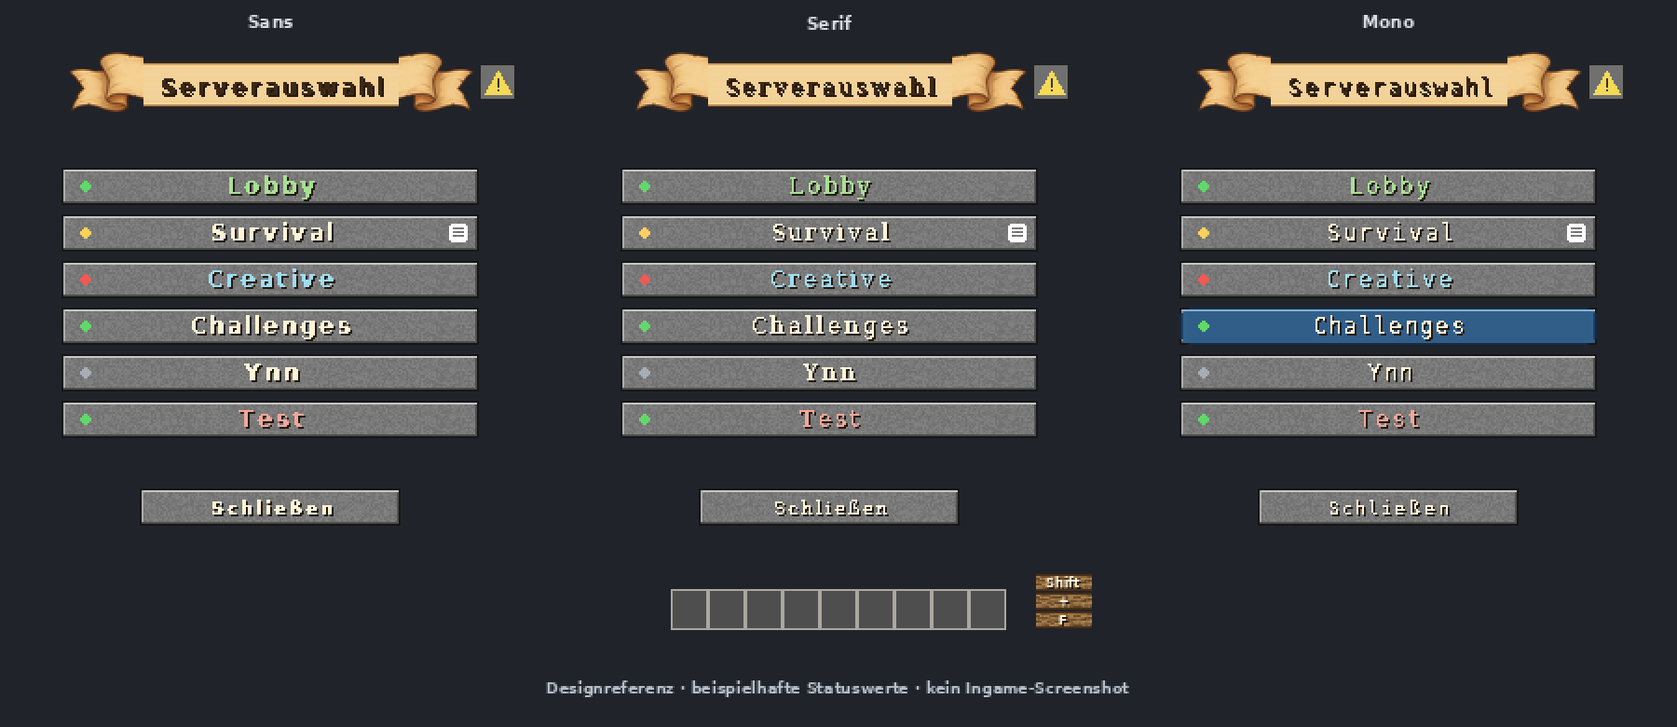
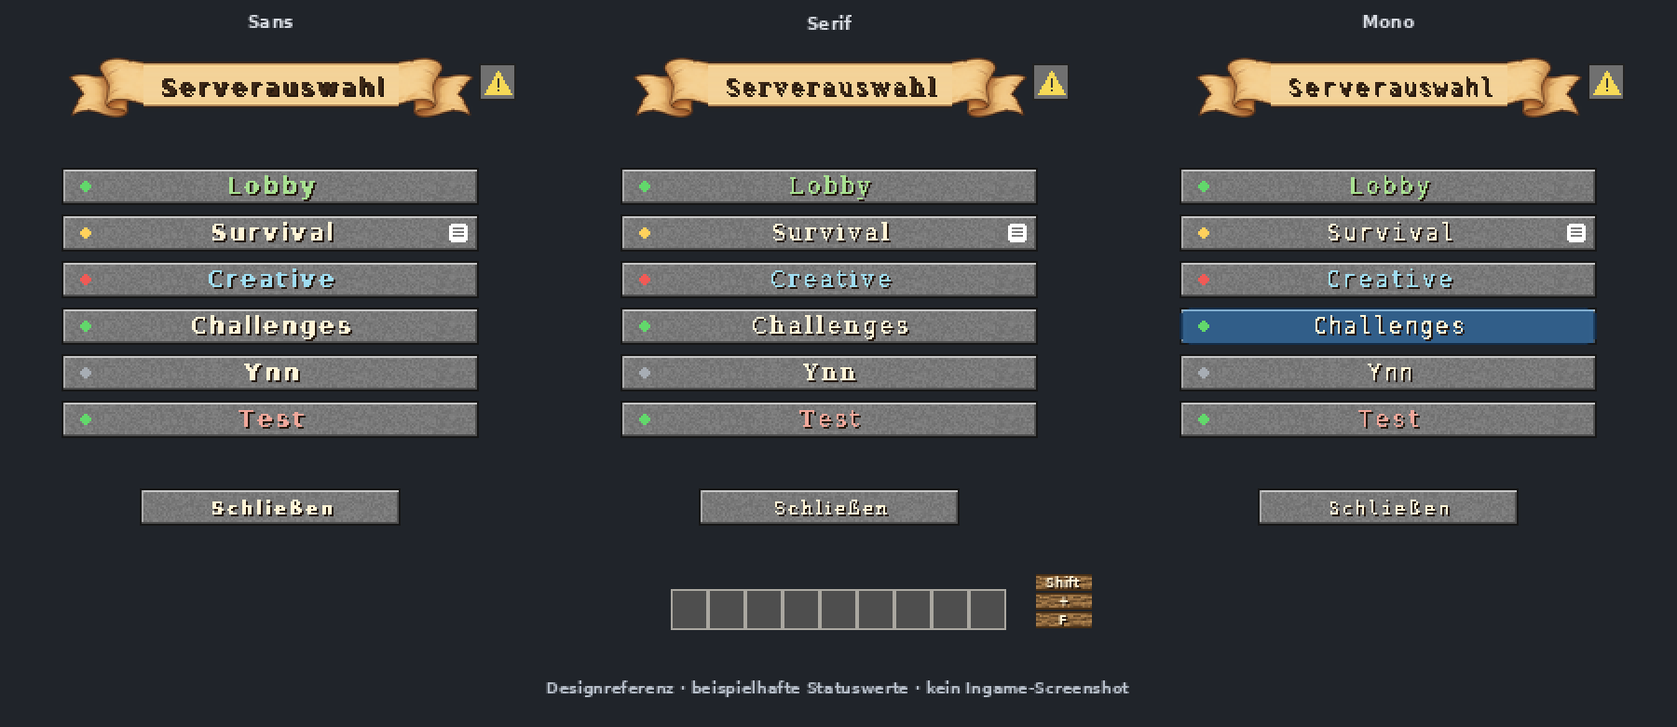
Fix ServerHub 2.5.2 news permissions, offline navigation, AMP success logs and scroll seams

diff --git a/velocity/src/test/java/de/serverhub/velocity/ProxyPackLifecycleTest.java b/velocity/src/test/java/de/serverhub/velocity/ProxyPackLifecycleTest.java
@@ -194,24 +194,47 @@ class ProxyPackLifecycleTest {
     void packet(ServerConnection connection,UUID nonce,Wire.Type type,String... values){
         var event=mock(PluginMessageEvent.class);when(event.getIdentifier()).thenReturn(MinecraftChannelIdentifier.from(Wire.CHANNEL));when(event.getSource()).thenReturn(connection);when(event.getData()).thenReturn(Wire.encode(type,nonce,values));plugin.pluginMessage(event);
     }
-    @Test void newsNeedsProxyPermissionAndTheCurrentBackendNonceAndReturnsOnlyVisibleContent()throws Exception{
-        setup("");connect();status(packId,PlayerResourcePackStatusEvent.Status.SUCCESSFUL);var connection=backend();var lobby=connection.getServer();var target=registered("challenges");when(proxy.getAllServers()).thenReturn(List.of(lobby,target));plugin.refreshRegistered();UUID nonce=UUID.randomUUID();packet(connection,nonce,Wire.Type.HELLO);
+    @Test void backendNewsGrantWorksWithUndefinedProxyRightsButExplicitDenialAndWrongNonceStillFail()throws Exception{
+        setup("");connect();status(packId,PlayerResourcePackStatusEvent.Status.SUCCESSFUL);var connection=backend();var lobby=connection.getServer();var target=registered("challenges");when(proxy.getAllServers()).thenReturn(List.of(lobby,target));when(proxy.getServer("challenges")).thenReturn(Optional.of(target));plugin.refreshRegistered();UUID nonce=UUID.randomUUID();packet(connection,nonce,Wire.Type.HELLO);
+        when(player.getPermissionValue("serverhub.news")).thenReturn(com.velocitypowered.api.permission.Tristate.FALSE);
         packet(connection,nonce,Wire.Type.NEWS_CHANGE,"start","challenges","Neue Welt");assertFalse(new NewsStore(directory).active("challenges"));
-        when(player.hasPermission("serverhub.news")).thenReturn(true);packet(connection,UUID.randomUUID(),Wire.Type.NEWS_CHANGE,"start","challenges","Gefälscht");assertFalse(new NewsStore(directory).active("challenges"));
+        when(player.getPermissionValue("serverhub.news")).thenReturn(com.velocitypowered.api.permission.Tristate.UNDEFINED);packet(connection,UUID.randomUUID(),Wire.Type.NEWS_CHANGE,"start","challenges","Gefälscht");assertFalse(new NewsStore(directory).active("challenges"));
         when(proxy.getAllPlayers()).thenReturn(List.of(player));clearInvocations(connection);packet(connection,nonce,Wire.Type.NEWS_CHANGE,"start","challenges","Neue Welt");assertEquals("Neue Welt",new NewsStore(directory).get("challenges"));
         var messages=ArgumentCaptor.forClass(byte[].class);verify(connection,atLeastOnce()).sendPluginMessage(any(),messages.capture());var snapshot=MenuSnapshot.decode(Wire.decode(messages.getAllValues().getLast()).values());assertTrue(snapshot.entries().stream().filter(e->e.target().equals("challenges")).findFirst().orElseThrow().style().news());assertEquals("lobby",snapshot.options().text("runtime.server"));
         clearInvocations(connection);packet(connection,nonce,Wire.Type.NEWS_VIEW,"challenges");verify(connection).sendPluginMessage(any(),messages.capture());var content=Wire.decode(messages.getValue());assertEquals(Wire.Type.NEWS_CONTENT,content.type());assertEquals(List.of("challenges","Neue Welt"),content.values());
         when(player.getPermissionValue("serverhub.connect.challenges")).thenReturn(com.velocitypowered.api.permission.Tristate.FALSE);clearInvocations(connection);packet(connection,nonce,Wire.Type.NEWS_VIEW,"challenges");verify(connection).sendPluginMessage(any(),messages.capture());assertEquals(Wire.Type.RESULT,Wire.decode(messages.getValue()).type());
         when(player.getPermissionValue("serverhub.connect.challenges")).thenReturn(com.velocitypowered.api.permission.Tristate.UNDEFINED);packet(connection,nonce,Wire.Type.NEWS_CHANGE,"stop","challenges");assertFalse(new NewsStore(directory).active("challenges"));
     }
-    @Test void ampSleepIsInTheActualMenuEvenWhenMinecraftPingAndPaperHeartbeatAreAwake()throws Exception{
+    @Test void newsCanBeSetForTheLobbyAndOtherTargetsWithoutAnyTeleportOrConnectPermission()throws Exception{
+        setup("");connect();status(packId,PlayerResourcePackStatusEvent.Status.SUCCESSFUL);var connection=backend();var lobby=connection.getServer();var other=registered("challenges");when(proxy.getAllServers()).thenReturn(List.of(lobby,other));when(proxy.getServer("lobby")).thenReturn(Optional.of(lobby));when(proxy.getServer("challenges")).thenReturn(Optional.of(other));plugin.refreshRegistered();UUID nonce=UUID.randomUUID();packet(connection,nonce,Wire.Type.HELLO);
+        when(player.getPermissionValue("serverhub.news")).thenReturn(com.velocitypowered.api.permission.Tristate.UNDEFINED);when(player.getPermissionValue("serverhub.connect.challenges")).thenReturn(com.velocitypowered.api.permission.Tristate.FALSE);
+        for(String target:List.of("lobby","challenges")){
+            clearInvocations(connection);var operation=NewsCommand.parse(new String[]{"news","start","--server",target,"Neue","Welt"},"lobby");packet(connection,nonce,Wire.Type.NEWS_CHANGE,operation.wire());assertEquals("Neue Welt",new NewsStore(directory).get(target));
+            var bytes=ArgumentCaptor.forClass(byte[].class);verify(connection).sendPluginMessage(any(),bytes.capture());assertEquals(List.of("news-start"),Wire.decode(bytes.getValue()).values());
+            packet(connection,nonce,Wire.Type.NEWS_CHANGE,NewsCommand.parse(new String[]{"news","stop","--server",target},"lobby").wire());assertFalse(new NewsStore(directory).active(target));
+        }
+        clearInvocations(connection);packet(connection,nonce,Wire.Type.NEWS_CHANGE,"start","missing","Text");var bytes=ArgumentCaptor.forClass(byte[].class);verify(connection).sendPluginMessage(any(),bytes.capture());assertEquals(List.of("news-unavailable"),Wire.decode(bytes.getValue()).values());
+        verify(player,never()).createConnectionRequest(any());
+    }
+    NavigatorBridgeTest.Api navigator(){
+        var api=new NavigatorBridgeTest.Api();var manager=mock(com.velocitypowered.api.plugin.PluginManager.class);var container=mock(com.velocitypowered.api.plugin.PluginContainer.class);when(proxy.getPluginManager()).thenReturn(manager);when(manager.getPlugin("servernavigator")).thenReturn(Optional.of(container));doReturn(Optional.of(api)).when(container).getInstance();return api;
+    }
+    @Test void aRedOfflinePingNeverStartsTheNavigatorCountdownOrADirectTransfer()throws Exception{
+        setup("");connect();status(packId,PlayerResourcePackStatusEvent.Status.SUCCESSFUL);var connection=backend();var lobby=connection.getServer();var target=registered("survival");when(proxy.getAllServers()).thenReturn(List.of(lobby,target));when(proxy.getServer("survival")).thenReturn(Optional.of(target));var api=navigator();catalog(connection);
+        var online=ServerPing.builder().version(new ServerPing.Version(774,"Paper")).description(net.kyori.adventure.text.Component.text("Online")).build();when(lobby.ping(any(PingOptions.class))).thenReturn(java.util.concurrent.CompletableFuture.completedFuture(online));when(target.ping(any(PingOptions.class))).thenReturn(java.util.concurrent.CompletableFuture.failedFuture(new java.io.IOException("offline")));plugin.refreshStatuses();
+        UUID nonce=UUID.randomUUID();clearInvocations(connection);packet(connection,nonce,Wire.Type.HELLO);var bytes=ArgumentCaptor.forClass(byte[].class);verify(connection,times(3)).sendPluginMessage(any(),bytes.capture());var menu=MenuSnapshot.decode(Wire.decode(bytes.getAllValues().getLast()).values());assertEquals(MenuSnapshot.Status.OFFLINE,menu.entries().stream().filter(e->e.target().equals("survival")).findFirst().orElseThrow().status());
+        clearInvocations(connection);packet(connection,nonce,Wire.Type.CONNECT,"survival");verify(connection).sendPluginMessage(any(),bytes.capture());assertEquals(List.of("offline"),Wire.decode(bytes.getValue()).values());assertNull(api.requested);verify(player,never()).createConnectionRequest(any());
+    }
+    @org.junit.jupiter.params.ParameterizedTest @org.junit.jupiter.params.provider.ValueSource(ints={0,50})
+    void ampControlsTheActualMenuAndNavigationEvenWhenPingAndPaperHeartbeatAreAwake(int appState)throws Exception{
         setup("https://example.org/serverhub.zip");connect();status(packId,PlayerResourcePackStatusEvent.Status.SUCCESSFUL);var connection=backend();var lobby=connection.getServer();var survival=registered("survival");when(proxy.getAllServers()).thenReturn(List.of(lobby,survival));when(proxy.getServer("survival")).thenReturn(Optional.of(survival));
-        var http=com.sun.net.httpserver.HttpServer.create(new InetSocketAddress("127.0.0.1",0),0);http.createContext("/API/",exchange->{String result=exchange.getRequestURI().getPath().endsWith("Login")?"{\"success\":true,\"sessionID\":\"fixture\"}":"[{\"InstanceID\":\"survival\",\"AppState\":50}]";exchange.getRequestBody().readAllBytes();byte[] bytes=result.getBytes(java.nio.charset.StandardCharsets.UTF_8);exchange.sendResponseHeaders(200,bytes.length);exchange.getResponseBody().write(bytes);exchange.close();});http.start();
+        var http=com.sun.net.httpserver.HttpServer.create(new InetSocketAddress("127.0.0.1",0),0);http.createContext("/API/",exchange->{String result=exchange.getRequestURI().getPath().endsWith("Login")?"{\"success\":true,\"sessionID\":\"fixture\"}":"[{\"InstanceID\":\"survival\",\"AppState\":"+appState+"}]";exchange.getRequestBody().readAllBytes();byte[] bytes=result.getBytes(java.nio.charset.StandardCharsets.UTF_8);exchange.sendResponseHeaders(200,bytes.length);exchange.getResponseBody().write(bytes);exchange.close();});http.start();
         try{
             Files.writeString(directory.resolve("amp.yml"),"enabled: true\nurl: 'http://127.0.0.1:"+http.getAddress().getPort()+"/'\nusername: fixture\n");plugin.reload();var ampField=ServerHubVelocity.class.getDeclaredField("amp");ampField.setAccessible(true);((AmpStatusSource)ampField.get(plugin)).poll();
             var monitorField=ServerHubVelocity.class.getDeclaredField("statusMonitor");monitorField.setAccessible(true);((ServerStatusMonitor)monitorField.get(plugin)).backend("survival",new BackendStatus(UUID.randomUUID(),1,false));
             var awake=ServerPing.builder().version(new ServerPing.Version(774,"Paper")).description(net.kyori.adventure.text.Component.text("Online")).build();when(lobby.ping(any(PingOptions.class))).thenReturn(java.util.concurrent.CompletableFuture.completedFuture(awake));when(survival.ping(any(PingOptions.class))).thenReturn(java.util.concurrent.CompletableFuture.completedFuture(awake));plugin.refreshStatuses();
-            catalog(connection);var bytes=ArgumentCaptor.forClass(byte[].class);verify(connection,times(3)).sendPluginMessage(any(),bytes.capture());var menu=MenuSnapshot.decode(Wire.decode(bytes.getAllValues().getLast()).values());assertEquals(MenuSnapshot.Status.SLEEPING,menu.entries().stream().filter(e->e.target().equals("survival")).findFirst().orElseThrow().status());
+            catalog(connection);var bytes=ArgumentCaptor.forClass(byte[].class);verify(connection,times(3)).sendPluginMessage(any(),bytes.capture());var menu=MenuSnapshot.decode(Wire.decode(bytes.getAllValues().getLast()).values());assertEquals(appState==0?MenuSnapshot.Status.OFFLINE:MenuSnapshot.Status.SLEEPING,menu.entries().stream().filter(e->e.target().equals("survival")).findFirst().orElseThrow().status());
+            var api=navigator();UUID nonce=UUID.randomUUID();packet(connection,nonce,Wire.Type.HELLO);packet(connection,nonce,Wire.Type.CONNECT,"survival");if(appState==0){assertNull(api.requested);verify(connection,atLeastOnce()).sendPluginMessage(any(),bytes.capture());assertEquals(List.of("offline"),Wire.decode(bytes.getValue()).values());}else assertSame(player,api.requested);verify(player,never()).createConnectionRequest(any());
         }finally{http.stop(0);}
         verify(player,times(1)).sendResourcePackOffer(any());
     }

diff --git a/velocity/src/main/java/de/serverhub/velocity/ServerHubVelocity.java b/velocity/src/main/java/de/serverhub/velocity/ServerHubVelocity.java
@@ -94,7 +94,7 @@ public final class ServerHubVelocity {
                 if(host!=null&&settings!=null&&(settings.port()!=next.port()||!settings.bind().equals(next.bind())))throw new IOException("HTTP-Bind oder Port geändert: Proxy vollständig neu starten");
                 if(host==null&&next.http())host=new PackHost(next.bind(),next.port(),next.pack());else if(host!=null)host.update(next.pack());
                 menus.adopt(candidate);statusMonitor.configure(candidate);currentFonts=fonts;currentUi=ui;news=newsCandidate;settings=next;retainHostedPacks();
-                if(amp==null||!amp.config().equals(ampConfig)){if(amp!=null)amp.close();amp=new AmpStatusSource(ampConfig,logger::warn,this::pushMenus);}
+                if(amp==null||!amp.config().equals(ampConfig)){if(amp!=null)amp.close();amp=new AmpStatusSource(ampConfig,logger::warn,logger::info,this::pushMenus);}
                 if(statusReceiver==null&&candidate.options().flag("status.backend-reports"))try{statusReceiver=new BackendStatusReceiver(directory,candidate.options().text("status.report-bind"),candidate.options().number("status.report-port"),target->proxy.getServer(target).isPresent(),statusMonitor::backend);}
                 catch(IOException e){logger.warn("Backend-Statuskanal konnte nicht gestartet werden: {}. Status fällt auf Pings zurück; status.report-port in servers.yml prüfen.",e.getMessage());}
             }
@@ -197,10 +197,14 @@ public final class ServerHubVelocity {
     private void sendMenu(Player p){
         sendMenu(p,false);
     }
+    private MenuSnapshot.Status backendStatus(CentralMenuConfig.Server server,CentralMenuConfig.State state){
+        var status=statusMonitor.status(server,state);var source=amp;
+        return source!=null&&server.override().equals("auto")?source.status(server).orElse(status):status;
+    }
     private void sendMenu(Player p,boolean force){
         var state=menus.current();if(state==null)return;
         boolean integrate=state.options().flag("integration.servernavigator");
-        var entries=visibleServers(p).stream().map(s->{var e=s.entry();var status=statusMonitor.status(s,state);var source=amp;if(source!=null&&s.override().equals("auto"))status=source.status(s).orElse(status);if(integrate&&s.override().equals("auto"))status=navigator.status(e.target(),status);int online=proxy.getServer(e.target()).map(server->server.getPlayersConnected().size()).orElse(0),maximum=statusMonitor.maximum(e.target());String prefix=MenuTemplate.prefix(e.style().prefix().isBlank()?state.options().text("prefix.text"):e.style().prefix(),e.name(),e.target(),status,online,maximum);return new MenuSnapshot.Entry(e.target(),e.name(),e.color(),e.size(),e.permission(),e.description(),status,e.family(),e.style().live(online,maximum,prefix,news!=null&&news.active(e.target())));}).toList();
+        var entries=visibleServers(p).stream().map(s->{var e=s.entry();var status=backendStatus(s,state);if(integrate&&s.override().equals("auto")&&status!=MenuSnapshot.Status.OFFLINE)status=navigator.status(e.target(),status);int online=proxy.getServer(e.target()).map(server->server.getPlayersConnected().size()).orElse(0),maximum=statusMonitor.maximum(e.target());String prefix=MenuTemplate.prefix(e.style().prefix().isBlank()?state.options().text("prefix.text"):e.style().prefix(),e.name(),e.target(),status,online,maximum);return new MenuSnapshot.Entry(e.target(),e.name(),e.color(),e.size(),e.permission(),e.description(),status,e.family(),e.style().live(online,maximum,prefix,news!=null&&news.active(e.target())));}).toList();
         var values=new LinkedHashMap<>(state.options().values());values.put("runtime.waiting",Boolean.toString(integrate&&navigator.waiting(p.getUniqueId())));values.put("runtime.server",p.getCurrentServer().map(server->server.getServerInfo().getName()).orElse(""));
         Gate gate=gates.get(p.getUniqueId());FontBook fonts=gate==null?currentFonts:gate.fonts;
         try{var snapshot=new MenuSnapshot(state.revision(),new MenuOptions(values),entries,fonts,gate==null?currentUi:gate.ui);if(!force&&gate!=null&&snapshot.equals(gate.lastMenu))return;send(p,Wire.Type.MENU,snapshot.encode());if(gate!=null)gate.lastMenu=snapshot;}
@@ -239,10 +243,13 @@ public final class ServerHubVelocity {
         synchronized(gate){long now=System.currentTimeMillis();if(now-gate.lastSwitch<700)return;gate.lastSwitch=now;}
         if(!target.matches("[A-Za-z0-9_.-]{1,64}")){send(p,Wire.Type.RESULT,"denied");return;}
         if(p.getPermissionValue("serverhub.connect."+target)==Tristate.FALSE){send(p,Wire.Type.RESULT,"denied");return;}
-        if(visibleServers(p).stream().noneMatch(s->s.entry().target().equalsIgnoreCase(target))){send(p,Wire.Type.RESULT,"denied");return;}
+        var destination=visibleServers(p).stream().filter(s->s.entry().target().equalsIgnoreCase(target)).findFirst().orElse(null);
+        if(destination==null){send(p,Wire.Type.RESULT,"denied");return;}
         var registered=proxy.getServer(target);
         if(registered.isEmpty()){send(p,Wire.Type.RESULT,"unavailable");return;}
         if(p.getCurrentServer().filter(c->c.getServer().equals(registered.get())).isPresent()){send(p,Wire.Type.RESULT,"already");return;}
+        // Check the real backend/AMP state before Navigator can create a queue or countdown.
+        if(backendStatus(destination,menus.current())==MenuSnapshot.Status.OFFLINE){send(p,Wire.Type.RESULT,"offline");return;}
         if(menus.current().options().flag("integration.servernavigator")){
             var result=navigator.navigate(p,target);
             if(result==NavigatorBridge.Result.HANDLED){sendMenu(p);return;}
@@ -253,11 +260,17 @@ public final class ServerHubVelocity {
         });
     }
     private void changeNews(Player player,NewsCommand operation){
-        if(!player.hasPermission("serverhub.news")||news==null||visibleServers(player).stream().noneMatch(s->s.entry().target().equalsIgnoreCase(operation.target()))){send(player,Wire.Type.RESULT,"denied");return;}
-        try{if(operation.start())news.start(operation.target(),operation.message());else news.stop(operation.target());send(player,Wire.Type.RESULT,operation.start()?"news-start":"news-stop");pushMenus();}catch(IOException e){logger.warn("Neuigkeiten konnten nicht gespeichert werden: {}",e.getMessage());send(player,Wire.Type.RESULT,"unavailable");}
+        // Only reached from the current trusted backend with its session nonce.
+        // Paper has checked serverhub.news (including its OP default). An explicit
+        // proxy denial still wins; an absent proxy permission must not erase that grant.
+        if(player.getPermissionValue("serverhub.news")==Tristate.FALSE){send(player,Wire.Type.RESULT,"news-denied");return;}
+        var state=menus.current();
+        if(news==null||state==null||proxy.getServer(operation.target()).isEmpty()||state.servers().stream().noneMatch(s->s.entry().target().equalsIgnoreCase(operation.target()))){send(player,Wire.Type.RESULT,"news-unavailable");return;}
+        // Publishing news is independent of the player's right to connect to that target.
+        try{if(operation.start())news.start(operation.target(),operation.message());else news.stop(operation.target());send(player,Wire.Type.RESULT,operation.start()?"news-start":"news-stop");pushMenus();}catch(IOException e){logger.warn("Neuigkeiten konnten nicht gespeichert werden: {}",e.getMessage());send(player,Wire.Type.RESULT,"news-unavailable");}
     }
     private void viewNews(Player player,String target){
-        Gate gate=gates.get(player.getUniqueId());if(gate==null||!gate.state.ready()||!Wire.validTarget(target)||news==null||visibleServers(player).stream().noneMatch(s->s.entry().target().equalsIgnoreCase(target))){send(player,Wire.Type.RESULT,"denied");return;}
+        Gate gate=gates.get(player.getUniqueId());if(gate==null||!gate.state.ready()||!Wire.validTarget(target)||news==null||visibleServers(player).stream().noneMatch(s->s.entry().target().equalsIgnoreCase(target))){send(player,Wire.Type.RESULT,"news-unavailable");return;}
         send(player,Wire.Type.NEWS_CONTENT,NewsCommand.content(target,news.get(target)));
     }
     @Subscribe public void shutdown(ProxyShutdownEvent event){

diff --git a/velocity/src/main/java/de/serverhub/velocity/AmpStatusSource.java b/velocity/src/main/java/de/serverhub/velocity/AmpStatusSource.java
@@ -21,13 +21,15 @@ final class AmpStatusSource implements AutoCloseable {
     record Config(boolean enabled,URI url,String username,String password,String token,int interval,int stale,boolean autoMatch,String mode,String instanceTarget,Map<String,MenuSnapshot.Status> states){}
     private record Instance(String id,String name,String friendly,String state){}
     private record Snapshot(List<Instance> instances,long time){}
-    private final Config config;private final Consumer<String> log;private final Runnable changed;private final LongSupplier clock;
+    private final Config config;private final Consumer<String> log,info;private final Runnable changed;private final LongSupplier clock;
     private final HttpClient client=HttpClient.newBuilder().followRedirects(HttpClient.Redirect.NEVER).connectTimeout(Duration.ofSeconds(3)).build();
     private final ExecutorService executor=Executors.newVirtualThreadPerTaskExecutor();private final AtomicBoolean pending=new AtomicBoolean();
     private volatile Snapshot snapshot=new Snapshot(List.of(),0);private volatile String error="Noch nicht abgefragt";private volatile boolean closed;
-    private String session="";private long nextPoll,nextLogin,lastWarning;
-    AmpStatusSource(Config config,Consumer<String> log,Runnable changed){this(config,log,changed,System::currentTimeMillis);}
-    AmpStatusSource(Config config,Consumer<String> log,Runnable changed,LongSupplier clock){this.config=config;this.log=log;this.changed=changed;this.clock=clock;}
+    private String session="";private long nextPoll,nextLogin,lastWarning;private int announcedCount=-1;
+    AmpStatusSource(Config config,Consumer<String> log,Runnable changed){this(config,log,message->{},changed,System::currentTimeMillis);}
+    AmpStatusSource(Config config,Consumer<String> log,Runnable changed,LongSupplier clock){this(config,log,message->{},changed,clock);}
+    AmpStatusSource(Config config,Consumer<String> log,Consumer<String> info,Runnable changed){this(config,log,info,changed,System::currentTimeMillis);}
+    AmpStatusSource(Config config,Consumer<String> log,Consumer<String> info,Runnable changed,LongSupplier clock){this.config=config;this.log=log;this.info=info;this.changed=changed;this.clock=clock;}
     Config config(){return config;}
     static Config load(Path directory)throws IOException {
         Path file=directory.resolve("amp.yml");if(!Files.exists(file))try(var input=AmpStatusSource.class.getResourceAsStream("/amp.yml")){if(input==null)throw new IOException("AMP-Vorlage fehlt");Files.copy(input,file);}
@@ -56,11 +58,13 @@ final class AmpStatusSource implements AutoCloseable {
                 if(now<nextLogin)return;
                 nextLogin=now+60000;var login=post("Core/Login",Map.of("username",config.username,"password",config.password,"token",config.token,"rememberMe",false),false).getAsJsonObject();
                 if(!Json.get(login,"success").isJsonPrimitive()||!Json.get(login,"success").getAsBoolean()||(session=Json.string(login,"sessionID","")).isBlank()){nextLogin=now+60000;throw new IOException("AMP-Anmeldung fehlgeschlagen; Benutzer, Service-Token/Passwort und API-Rechte prüfen");}
-                nextLogin=0;
+                nextLogin=0;announcedCount=-1;info.accept("AMP: Anmeldung erfolgreich.");
             }
             JsonElement data=post(config.mode.equals("controller")?"ADSModule/GetInstances":"Core/GetStatus",Map.of("SESSIONID",session),true);var instances=new LinkedHashMap<String,Instance>();
             if(config.mode.equals("instance")){var value=data.getAsJsonObject();String state=Json.string(value,"State","");if(!state.isBlank())instances.put(config.instanceTarget,new Instance(config.instanceTarget,config.instanceTarget,config.instanceTarget,state));}
             else collect(data,instances,0);
+            if(closed)return;
+            if(instances.size()!=announcedCount){announcedCount=instances.size();info.accept("AMP: "+announcedCount+" Serverinstanzen mit Anwendungsstatus gefunden.");}
             if(instances.isEmpty())throw new IOException("AMP liefert keine Anwendungszustände; ADSModule.GetInstances-Rechte und amp.yml mode prüfen");
             var next=new Snapshot(List.copyOf(instances.values()),clock.getAsLong());if(closed)return;boolean different=!next.instances.equals(snapshot.instances);snapshot=next;error="";if(different)changed.run();
         }catch(Exception e){if(e instanceof InterruptedException)Thread.currentThread().interrupt();if(closed)return;error=e instanceof IOException?e.getMessage():"AMP-Antwort entspricht nicht dem erwarteten API-Format";if(now-lastWarning>60000){lastWarning=now;log.accept(error);}changed.run();}

diff --git a/velocity/src/test/java/de/serverhub/velocity/PackWorkspaceTest.java b/velocity/src/test/java/de/serverhub/velocity/PackWorkspaceTest.java
@@ -18,13 +18,21 @@ class PackWorkspaceTest {
         assertTrue(Files.isRegularFile(directory.resolve("pack/assets/serverhub/textures/gui/button_mid.png")));
         assertFalse(Files.exists(directory.resolve("pack-font-cache.properties.tmp")));
     }
+    @Test void theRollEndPiecesMeetTheMiddleAtTheSameVisibleTopEdge()throws Exception {
+        PackWorkspace.prepare(directory,stock(),MenuOptions.defaults());Path root=directory.resolve("pack/assets/serverhub");var definition=Json.read(Files.readString(root.resolve("font/gui.json"))).getAsJsonObject();var edges=new HashMap<String,int[]>();
+        for(var value:definition.getAsJsonArray("providers")){
+            var provider=value.getAsJsonObject();String file=Json.string(provider,"file","");if(!file.matches("serverhub:gui/scroll_(left|mid|right)\\.png"))continue;String part=file.substring(file.lastIndexOf('_')+1,file.length()-4);var image=javax.imageio.ImageIO.read(root.resolve("textures/"+file.substring("serverhub:".length())).toFile());int x=part.equals("left")?image.getWidth()-1:0,min=100,max=-100;int ascent=provider.get("ascent").getAsInt();
+            for(int y=0;y<image.getHeight();y++)if((image.getRGB(x,y)>>>24)>=128){min=Math.min(min,y-ascent);max=Math.max(max,y-ascent);}edges.put(part,new int[]{min,max});
+        }
+        assertEquals(3,edges.size());for(String side:List.of("left","right")){assertEquals(edges.get("mid")[0],edges.get(side)[0],"The roll must have no step at its upper seam");assertTrue(Math.abs(edges.get("mid")[1]-edges.get(side)[1])<=1);}
+    }
     @Test void anUntouchedTwoFourFolderUpgradesToTheExactNewGithubPack()throws Exception {
-        byte[] stock=stock();PackWorkspace.prepare(directory,stock,MenuOptions.defaults());Path metadata=directory.resolve("pack/pack.mcmeta");String factory=Files.readString(metadata);Files.writeString(metadata,factory.replace("ServerHub 2.5.1","ServerHub 2.4"));
+        byte[] stock=stock();PackWorkspace.prepare(directory,stock,MenuOptions.defaults());Path metadata=directory.resolve("pack/pack.mcmeta");String factory=Files.readString(metadata);Files.writeString(metadata,factory.replace("ServerHub 2.5.2","ServerHub 2.4"));
         Files.delete(directory.resolve("pack-bundled-files.properties"));
         var upgraded=PackWorkspace.prepare(directory,stock,MenuOptions.defaults());assertArrayEquals(stock,upgraded.bytes());assertEquals(factory,Files.readString(metadata));
     }
     @Test void factoryUpgradesKeepCustomTexturesAndChooseTheEditableDeliveryMode()throws Exception {
-        byte[] stock=stock();PackWorkspace.prepare(directory,stock,MenuOptions.defaults());Path metadata=directory.resolve("pack/pack.mcmeta");Files.writeString(metadata,Files.readString(metadata).replace("ServerHub 2.5.1","ServerHub 2.4"));Files.delete(directory.resolve("pack-bundled-files.properties"));
+        byte[] stock=stock();PackWorkspace.prepare(directory,stock,MenuOptions.defaults());Path metadata=directory.resolve("pack/pack.mcmeta");Files.writeString(metadata,Files.readString(metadata).replace("ServerHub 2.5.2","ServerHub 2.4"));Files.delete(directory.resolve("pack-bundled-files.properties"));
         Path button=directory.resolve("pack/assets/serverhub/textures/gui/button_mid.png");var texture=javax.imageio.ImageIO.read(button.toFile());texture.setRGB(0,5,0xFF123456);javax.imageio.ImageIO.write(texture,"png",button.toFile());byte[] custom=Files.readAllBytes(button);
         Files.writeString(directory.resolve("config.properties"),"pack.mode=auto\n");var upgraded=PackWorkspace.prepare(directory,stock,MenuOptions.defaults());assertArrayEquals(custom,Files.readAllBytes(button));assertFalse(PackWorkspace.bundled(upgraded,stock));assertTrue(ProxySettings.read(directory).http());
     }

diff --git a/paper/src/main/java/de/serverhub/paper/ServerHubPaper.java b/paper/src/main/java/de/serverhub/paper/ServerHubPaper.java
@@ -146,7 +146,7 @@ public final class ServerHubPaper extends JavaPlugin implements Listener, Comman
             } else if (packet.type() == Wire.Type.CATALOG) {
                 s.catalog = packet.values(); s.discovered = true;
             } else if (packet.type() == Wire.Type.RESULT) {
-                String key = switch(packet.value(0)) { case "already" -> "already-connected"; case "denied" -> "denied"; case "loading" -> "loading";case "navigator" -> "navigator-unavailable";case "news-start"->"news-started";case "news-stop"->"news-stopped"; default -> "unavailable"; };
+                String key = switch(packet.value(0)) { case "already" -> "already-connected"; case "denied" -> "denied"; case "loading" -> "loading";case "offline"->"server-offline";case "navigator" -> "navigator-unavailable";case "news-start"->"news-started";case "news-stop"->"news-stopped";case "news-denied"->"news-denied";case "news-unavailable"->"news-unavailable"; default -> "unavailable"; };
                 p.sendMessage(message(p,key));
             }
         } catch (Exception ignored) { /* Untrusted or out-of-date message. */ }
@@ -263,7 +263,7 @@ public final class ServerHubPaper extends JavaPlugin implements Listener, Comman
     }
     @Override public boolean onCommand(CommandSender sender,Command cmd,String label,String[] args){
         if(args.length>0&&args[0].equalsIgnoreCase("news")){
-            if(!sender.hasPermission("serverhub.news")){sender.sendMessage(message("no-permission"));return true;}
+            if(!sender.hasPermission("serverhub.news")){sender.sendMessage(sender instanceof Player player?message(player,"news-denied"):message("news-denied"));return true;}
             try{
                 String current=!proxyExpected?"local":sender instanceof Player player?effective(player).menuOptions().text("runtime.server"):"";var operation=NewsCommand.parse(args,current);
                 if(proxyExpected){if(!(sender instanceof Player player)){sender.sendMessage("Am Proxy /serverhubproxy news start --server Ziel Nachricht verwenden.");return true;}Session session=sessions.get(player.getUniqueId());if(session==null||session.central==null){player.sendMessage(message(player,"discovering"));return true;}player.sendPluginMessage(this,Wire.CHANNEL,Wire.encode(Wire.Type.NEWS_CHANGE,session.nonce,operation.wire()));}

diff --git a/tools/build_pack.py b/tools/build_pack.py
@@ -34,8 +34,9 @@ def main():
     info.save(gui/'info.png')
     dot=Image.new('RGBA',(6,6),(255,255,255,0));ImageDraw.Draw(dot).ellipse((0,0,5,5),fill='white');dot.save(gui/'status.png')
     save_json(A/'font/status.json',{'providers':[{'type':'bitmap','file':'serverhub:gui/status.png','height':6,'ascent':6,'chars':['\uE300']}]})
-    # Nine-slice glyphs let the client build a roll/button of the measured text width.
-    parts=[('scroll_left',scroll.crop((0,0,40,32)),0xE400,19),('scroll_mid',scroll.crop((scroll.width//2,0,scroll.width//2+1,32)),0xE401,19),('scroll_right',scroll.crop((scroll.width-40,0,scroll.width,32)),0xE402,19),
+    # End decorations sit three pixels below the middle so the inner paper edges meet.
+    # Glyph geometry keeps the center strip and title text fixed.
+    parts=[('scroll_left',scroll.crop((0,0,40,32)),0xE400,16),('scroll_mid',scroll.crop((scroll.width//2,0,scroll.width//2+1,32)),0xE401,19),('scroll_right',scroll.crop((scroll.width-40,0,scroll.width,32)),0xE402,16),
            ('button_left',wood.crop((0,0,4,20)),0xE410,13),('button_mid',wood.crop((70,0,71,20)),0xE411,13),('button_right',wood.crop((136,0,140,20)),0xE412,13),
            ('info_left',info.crop((0,0,4,20)),0xE420,13),('info_mid',info.crop((70,0,71,20)),0xE421,13),('info_right',info.crop((136,0,140,20)),0xE422,13)]
     providers=[]
@@ -112,7 +113,7 @@ def main():
     ]})
     save_json(A/'items/menu_icon.json',{'model':{'type':'minecraft:model','model':'serverhub:item/menu_icon'}})
     save_json(A/'models/item/menu_icon.json',{'parent':'minecraft:item/generated','textures':{'layer0':'serverhub:item/menu_icon'}})
-    save_json(OUT/'pack.mcmeta',{'pack':{'description':'ServerHub 2.5.1 · Native Dialoge · Java 26.3','min_format':[97,1],'max_format':[97,1]}})
+    save_json(OUT/'pack.mcmeta',{'pack':{'description':'ServerHub 2.5.2 · Native Dialoge · Java 26.3','min_format':[97,1],'max_format':[97,1]}})
     shutil.copyfile(source/'FONT-LICENSE.txt',OUT/'FONT-LICENSE.txt')
     package()
 

diff --git a/velocity/src/test/java/de/serverhub/velocity/AmpStatusSourceTest.java b/velocity/src/test/java/de/serverhub/velocity/AmpStatusSourceTest.java
@@ -53,4 +53,15 @@ class AmpStatusSourceTest {
     @Test void disabledAmpDoesNotClaimTargets()throws Exception {
         Files.writeString(directory.resolve("amp.yml"),"enabled: false\n");try(var source=new AmpStatusSource(AmpStatusSource.load(directory),s->{},()->{})){source.poll();assertTrue(paths.isEmpty());assertTrue(source.status(target("survival","")).isEmpty());}
     }
+    @Test void successfulLoginAndDiscoveryAreLoggedWithoutRepeatingEveryPollOrLeakingSecrets()throws Exception {
+        var info=new ArrayList<String>();var warnings=new ArrayList<String>();response.set("[{\"InstanceID\":\"survival\",\"AppState\":50}]");
+        try(var source=new AmpStatusSource(config(""),warnings::add,info::add,()->{},now::get)){
+            source.poll();assertEquals(List.of("AMP: Anmeldung erfolgreich.","AMP: 1 Serverinstanzen mit Anwendungsstatus gefunden."),info);source.poll();assertEquals(2,info.size());assertTrue(warnings.isEmpty());
+            response.set("[{\"InstanceID\":\"survival\",\"AppState\":20},{\"InstanceID\":\"creative\",\"AppState\":0}]");source.poll();assertEquals("AMP: 2 Serverinstanzen mit Anwendungsstatus gefunden.",info.getLast());
+            assertFalse(String.join(" ",info).contains("test-only"));assertFalse(String.join(" ",info).contains("fixture-session"));
+        }
+    }
+    @Test void anEmptyDiscoveryIsReportedAsZeroAndNotAsASuccessfulStatusList()throws Exception {
+        var info=new ArrayList<String>();var warnings=new ArrayList<String>();response.set("[]");try(var source=new AmpStatusSource(config(""),warnings::add,info::add,()->{},now::get)){source.poll();assertEquals("AMP: Anmeldung erfolgreich.",info.getFirst());assertTrue(info.getLast().contains("0 Serverinstanzen"));assertFalse(warnings.isEmpty());assertEquals(MenuSnapshot.Status.UNKNOWN,source.status(target("survival","")).orElseThrow());}
+    }
 }

diff --git a/tools/render_preview.py b/tools/render_preview.py
@@ -9,6 +9,8 @@ A=ROOT/'resource-pack/assets/serverhub'
 CODES=list(range(32,128))+list(range(160,256))
 
 def main():
+    import json
+    ascents={p['file']:p['ascent'] for p in json.loads((A/'font/gui.json').read_text())['providers'] if p['type']=='bitmap'}
     widths=dict(line.split('=')for line in (ROOT/'paper/src/main/resources/font-widths.properties').read_text().splitlines())
     atlases={(f,s):Image.open(A/f'textures/gui/latin_{f}_{s}.png').convert('RGBA')for f in ('sans','serif','mono')for s in (8,10,12,14,16)}
     positions={c:i for i,c in enumerate(CODES)}
@@ -30,8 +32,10 @@ def main():
     def background(canvas,kind,width,x,y,tint='#FFFFFF'):
         parts=[Image.open(A/f'textures/gui/{kind}_{p}.png').convert('RGBA')for p in ('left','mid','right')]
         left,middle,right=parts
-        image=Image.new('RGBA',(width,left.height));image.alpha_composite(left)
-        image.alpha_composite(middle.resize((width-left.width-right.width,middle.height)),(left.width,0));image.alpha_composite(right,(width-right.width,0))
+        levels=[ascents['serverhub:gui/'+kind+'_'+part+'.png']for part in ('left','mid','right')]
+        offsets=[max(levels)-level for level in levels]
+        image=Image.new('RGBA',(width,max(part.height+offset for part,offset in zip(parts,offsets))));image.alpha_composite(left,(0,offsets[0]))
+        image.alpha_composite(middle.resize((width-left.width-right.width,middle.height)),(left.width,offsets[1]));image.alpha_composite(right,(width-right.width,offsets[2]))
         if tint!='#FFFFFF':image=ImageChops.multiply(image,Image.new('RGBA',image.size,tint))
         canvas.alpha_composite(image,(x,y))
     def native_button(canvas,width,x,y):

diff --git a/common/src/main/java/de/serverhub/common/MenuOptions.java b/common/src/main/java/de/serverhub/common/MenuOptions.java
@@ -35,6 +35,8 @@ public record MenuOptions(Map<String,String> values) {
         m.put("messages.already-connected","&eDu bist bereits auf diesem Server.");
         m.put("messages.navigator-unavailable","&cServerNavigator benötigt die Integrationsschnittstelle ab Version 1.2.0 oder ist noch nicht bereit.");
         m.put("messages.news-started","&aNeuigkeiten gespeichert.");m.put("messages.news-stopped","&aNeuigkeiten beendet.");m.put("messages.news-missing","&eFür diesen Server gibt es keine Neuigkeiten.");
+        m.put("messages.news-denied","&cDu darfst keine Server-Neuigkeiten setzen. Bitte serverhub.news prüfen.");m.put("messages.news-unavailable","&cDie Neuigkeiten für dieses Serverziel sind nicht verfügbar.");
+        m.put("messages.server-offline","&cDieser Server ist ausgeschaltet oder nicht erreichbar. Es wurde kein Serverwechsel gestartet.");
         m.put("messages.denied","&cDer Proxy hat den Wechsel nicht erlaubt.");
         DEFAULTS=Collections.unmodifiableMap(m);
     }

diff --git a/velocity/src/main/java/de/serverhub/velocity/PackProbe.java b/velocity/src/main/java/de/serverhub/velocity/PackProbe.java
@@ -12,7 +12,7 @@ final class PackProbe {
     private PackProbe(){}
     static Result check(String url,String expectedSha){
         try(var client=HttpClient.newBuilder().followRedirects(HttpClient.Redirect.NORMAL).connectTimeout(Duration.ofSeconds(10)).build()){
-            var response=client.send(HttpRequest.newBuilder(URI.create(url)).timeout(Duration.ofSeconds(20)).header("User-Agent","ServerHub/2.5.1 packcheck").build(),HttpResponse.BodyHandlers.ofInputStream());
+            var response=client.send(HttpRequest.newBuilder(URI.create(url)).timeout(Duration.ofSeconds(20)).header("User-Agent","ServerHub/2.5.2 packcheck").build(),HttpResponse.BodyHandlers.ofInputStream());
             try(var body=response.body()){
                 if(response.statusCode()!=200)return new Result(false,"HTTP "+response.statusCode()+" statt 200; Downloadadresse und Freigabe prüfen");
                 MessageDigest digest=MessageDigest.getInstance("SHA-1");

diff --git a/velocity/src/test/java/de/serverhub/velocity/PackUrlsTest.java b/velocity/src/test/java/de/serverhub/velocity/PackUrlsTest.java
@@ -4,7 +4,7 @@ import org.junit.jupiter.api.Test;
 import static org.junit.jupiter.api.Assertions.*;
 class PackUrlsTest {
     @Test void fixedReleaseUsesHttpsAndTheExactVersion(){
-        assertEquals("https://github.com/etzewetze/serverhubgui/releases/download/v2.5.1/serverhub-pack.zip",PackUrls.RELEASE_URL);
+        assertEquals("https://github.com/etzewetze/serverhubgui/releases/download/v2.5.2/serverhub-pack.zip",PackUrls.RELEASE_URL);
     }
     @Test void selfHostUsesTheJoiningHostWithExplicitHttpPortAndHash(){
         assertEquals("http://play.example.org:8124/serverhub.zip?sha1="+"a".repeat(40),PackUrls.selfHosted("http","play.example.org",8124,"a".repeat(40)));

diff --git a/common/src/main/java/de/serverhub/common/PackUrls.java b/common/src/main/java/de/serverhub/common/PackUrls.java
@@ -3,7 +3,7 @@ package de.serverhub.common;
 import java.net.*;
 
 public final class PackUrls {
-    public static final String RELEASE_URL="https://github.com/etzewetze/serverhubgui/releases/download/v2.5.1/serverhub-pack.zip";
+    public static final String RELEASE_URL="https://github.com/etzewetze/serverhubgui/releases/download/v2.5.2/serverhub-pack.zip";
     private PackUrls(){}
     public static String external(String raw){
         URI uri=URI.create(raw==null?"":raw.trim());
